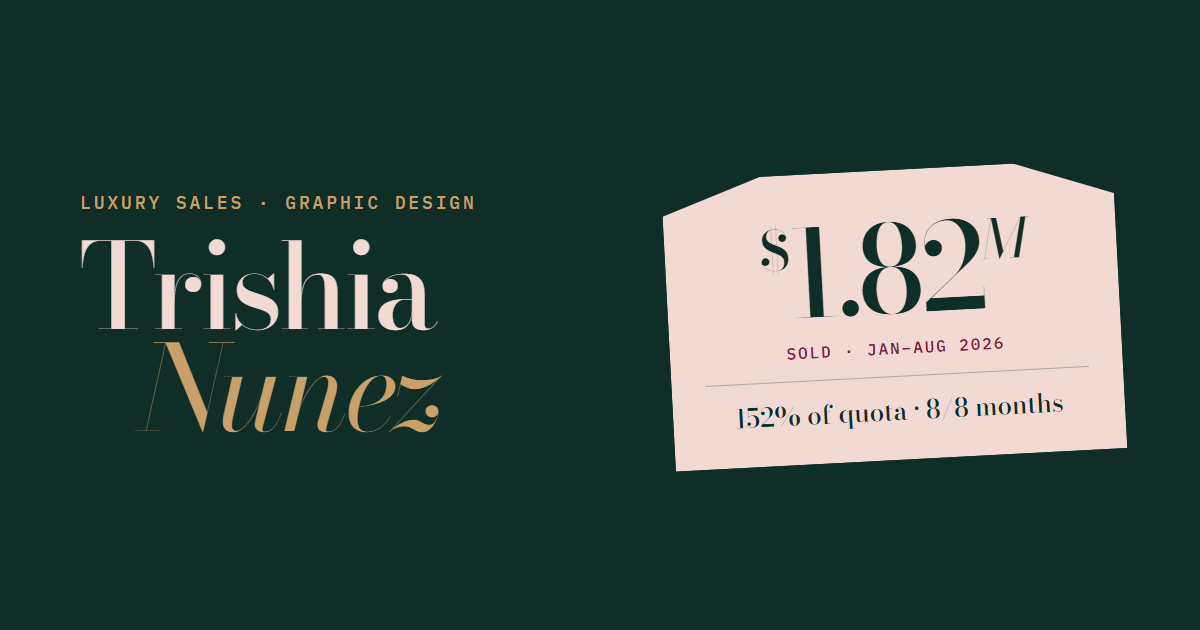
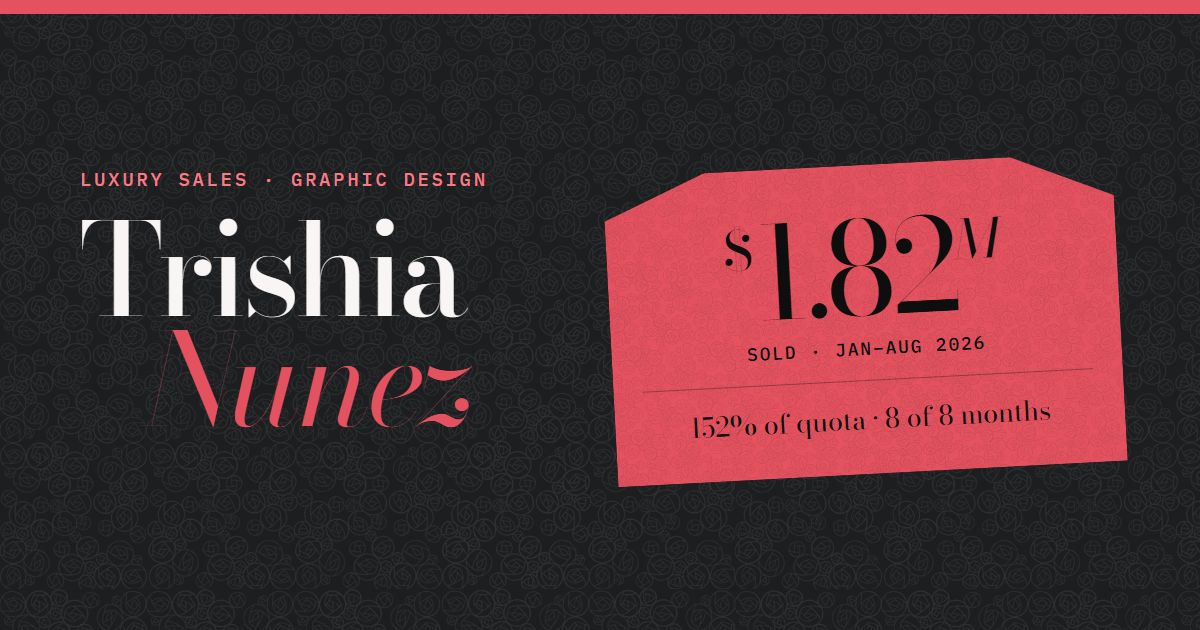
Redesign around her Infrared palette
Infrared (#E5525F) from her portfolio site on charcoal, with her
rose line pattern as texture: Infrared top bar with her character
mark, Infrared numbers band, hang tag and contact band. Updated
favicon, theme color and social preview image.

diff --git a/styles.css b/styles.css
@@ -1,19 +1,21 @@
 /* Trishia Nunez: trishianunez.com
-   Dark palette: near-black bottle green ground, blush headings, brass + rose accents. */
+   Palette from her portfolio site: Infrared red on charcoal, white type, black line-art roses. */
 :root {
   color-scheme: dark;
-  --bg: #0E1513;         /* page ground */
-  --band: #0B201C;       /* deep bottle green: results, contact, footer */
-  --surface: #15241F;    /* cards, frames, placeholders */
-  --tag: #16302A;        /* hang tag */
-  --heading: #F1E4DF;    /* headings, strong text */
-  --blush: #E8C9C1;      /* big numerals, primary buttons */
-  --brass: #CDA872;
-  --rose: #E3A0AE;       /* accent text: eyebrows, italics, labels */
-  --text: #DDD5CF;
-  --muted: #A29A94;
-  --rule: rgba(233, 226, 220, .12);
-  --rule-strong: rgba(232, 201, 193, .32);
+  --bg: #1D1E20;         /* charcoal page ground */
+  --bg-deep: #141516;    /* footer */
+  --surface: #26272A;    /* cards, frames */
+  --infrared: #E5525F;   /* brand red: top bar, bands, tag, buttons, large italics */
+  --infrared-hi: #F47C87;/* small accent text on charcoal (AA contrast) */
+  --ink: #0E0E0F;        /* text on infrared */
+  --heading: #F8F5F4;
+  --text: #DAD6D4;
+  --muted: #A19D9B;
+  --rule: rgba(255, 255, 255, .1);
+  --rule-strong: rgba(255, 255, 255, .26);
+  --rule-ink: rgba(14, 14, 15, .3);
+  --roses: url("assets/roses-dark.webp");
+  --roses-light: url("assets/roses-light.webp");
 
   --display: "Bodoni Moda", "Didot", "Bodoni 72", Georgia, serif;
   --body: "Hanken Grotesk", system-ui, -apple-system, "Segoe UI", sans-serif;
@@ -27,7 +29,7 @@
 html { scroll-behavior: smooth; -webkit-text-size-adjust: 100%; }
 body {
   margin: 0;
-  background: var(--bg);
+  background: var(--roses) 0 0 / 735px auto, var(--bg);
   color: var(--text);
   font: 400 1.0625rem/1.6 var(--body);
   -webkit-font-smoothing: antialiased;
@@ -36,43 +38,43 @@ body {
 img { max-width: 100%; display: block; }
 a { color: inherit; }
 h1, h2, h3, p { margin: 0; }
-:focus-visible { outline: 2px solid var(--rose); outline-offset: 3px; border-radius: 2px; }
-.results :focus-visible, .contact :focus-visible { outline-color: var(--brass); }
+:focus-visible { outline: 2px solid var(--infrared-hi); outline-offset: 3px; border-radius: 2px; }
+.topbar :focus-visible, .results :focus-visible, .contact :focus-visible { outline-color: var(--ink); }
 
 .skip {
   position: absolute; left: 1rem; top: -4rem; z-index: 50;
-  background: var(--blush); color: var(--bg); padding: .6rem 1rem; text-decoration: none;
+  background: var(--infrared); color: var(--ink); padding: .6rem 1rem; text-decoration: none;
 }
 .skip:focus { top: 1rem; }
 
 .eyebrow {
   font: 500 .75rem/1.4 var(--mono);
   letter-spacing: .14em; text-transform: uppercase;
-  color: var(--rose);
+  color: var(--infrared-hi);
 }
-.eyebrow--light { color: var(--brass); }
+.eyebrow--light { color: var(--ink); }
 
 /* ---------- Top bar ---------- */
 .topbar {
   position: sticky; top: 0; z-index: 20;
   display: flex; align-items: center; justify-content: space-between; gap: 1rem;
   padding: .85rem var(--gutter);
-  background: rgba(14, 21, 19, .86);
-  backdrop-filter: saturate(1.4) blur(10px);
-  -webkit-backdrop-filter: saturate(1.4) blur(10px);
-  border-bottom: 1px solid var(--rule);
+  background: var(--infrared);
+  box-shadow: 0 1px 0 rgba(0, 0, 0, .25), 0 10px 30px rgba(0, 0, 0, .25);
 }
 .monogram {
-  font: 600 1.5rem/1 var(--display); letter-spacing: -.02em; text-decoration: none; color: var(--heading);
+  display: inline-flex; align-items: center; gap: .6rem;
+  font: 600 1.5rem/1 var(--display); letter-spacing: -.02em; text-decoration: none; color: var(--ink);
 }
-.monogram span { font-style: italic; color: var(--rose); margin-left: .02em; }
+.monogram img { width: 46px; height: auto; }
+.monogram span { font-style: italic; color: var(--heading); margin-left: -.5rem; }
 .topbar ul { list-style: none; display: flex; gap: clamp(.75rem, 2.4vw, 2rem); margin: 0; padding: 0; align-items: center; }
 .topbar a:not(.monogram) {
-  font: 500 .8rem/1 var(--mono); letter-spacing: .08em; text-transform: uppercase; text-decoration: none; color: var(--text);
+  font: 500 .8rem/1 var(--mono); letter-spacing: .08em; text-transform: uppercase; text-decoration: none; color: var(--ink);
 }
-.topbar li a:hover { color: var(--rose); }
-.topbar__cta { border: 1px solid var(--rule-strong); padding: .55rem .9rem; border-radius: 999px; }
-.topbar__cta:hover { background: var(--blush); border-color: var(--blush); color: var(--bg) !important; }
+.topbar li a:hover { color: var(--heading); }
+.topbar__cta { border: 1px solid var(--ink); padding: .55rem .9rem; border-radius: 999px; }
+.topbar__cta:hover { background: var(--ink); color: var(--heading) !important; }
 
 /* ---------- Buttons ---------- */
 .btn {
@@ -83,14 +85,15 @@ h1, h2, h3, p { margin: 0; }
   transition: background-color .2s, color .2s, border-color .2s, transform .2s;
 }
 .btn:hover { transform: translateY(-1px); }
-.btn--primary { background: var(--blush); color: var(--bg); }
-.btn--primary:hover { background: var(--brass); }
+.btn--primary { background: var(--infrared); color: var(--ink); }
+.btn--primary:hover { background: var(--heading); }
 .btn--ghost { border-color: var(--rule-strong); color: var(--heading); }
-.btn--ghost:hover { border-color: var(--blush); background: rgba(232, 201, 193, .08); }
-.btn--light { background: var(--blush); color: var(--bg); }
-.btn--light:hover { background: var(--brass); }
-.btn--outline-light { border-color: rgba(242, 217, 211, .55); color: var(--blush); }
-.btn--outline-light:hover { border-color: var(--blush); background: rgba(242, 217, 211, .08); }
+.btn--ghost:hover { border-color: var(--infrared); background: rgba(229, 82, 95, .1); }
+/* on Infrared bands */
+.btn--light { background: var(--ink); color: var(--heading); }
+.btn--light:hover { background: var(--bg); }
+.btn--outline-light { border-color: var(--ink); color: var(--ink); }
+.btn--outline-light:hover { background: rgba(14, 14, 15, .1); }
 
 /* ---------- Hero ---------- */
 .hero {
@@ -106,7 +109,7 @@ h1, h2, h3, p { margin: 0; }
   font-variation-settings: "opsz" 96;
   line-height: .86; letter-spacing: -.035em; color: var(--heading);
 }
-.hero__name em { display: block; font-style: italic; font-weight: 400; color: var(--rose); padding-left: .55em; }
+.hero__name em { display: block; font-style: italic; font-weight: 400; color: var(--infrared); padding-left: .55em; }
 .hero__line { max-width: 34ch; font-size: clamp(1.1rem, 1.6vw, 1.3rem); line-height: 1.5; color: var(--muted); }
 .hero__line strong { color: var(--heading); font-weight: 600; }
 .hero__actions { display: flex; flex-wrap: wrap; gap: .75rem; margin-top: 2rem; }
@@ -115,11 +118,11 @@ h1, h2, h3, p { margin: 0; }
 .tagwrap { position: relative; justify-self: center; padding-top: 110px; width: min(100%, 360px); }
 .tagwrap__string {
   position: absolute; z-index: 2; top: -40px; left: 50%; width: 60px; height: 180px; transform: translateX(-50%); pointer-events: none;
-  color: var(--brass);
+  color: var(--muted);
 }
 .tag {
   position: relative;
-  background: var(--tag); color: var(--heading);
+  background: var(--roses-light) 0 0 / 420px auto, var(--infrared); color: var(--ink);
   padding: 3.4rem 1.75rem 1.5rem;
   /* clipped shoulders, like a cut card tag */
   clip-path: polygon(22% 0, 78% 0, 100% 12%, 100% 100%, 0 100%, 0 12%);
@@ -130,16 +133,16 @@ h1, h2, h3, p { margin: 0; }
 }
 .tag::before { /* inner stitched border */
   content: ""; position: absolute; inset: 10px;
-  border: 1px dashed rgba(205, 168, 114, .4);
+  border: 1px dashed rgba(14, 14, 15, .45);
   clip-path: polygon(22% 0, 78% 0, 100% 11.5%, 100% 100%, 0 100%, 0 11.5%);
   pointer-events: none;
 }
 .tag__eyelet {
   position: absolute; top: 1.15rem; left: 50%; width: 22px; height: 22px; transform: translateX(-50%);
-  border-radius: 50%; background: var(--bg); box-shadow: 0 0 0 4px var(--brass), inset 0 2px 3px rgba(0,0,0,.18);
+  border-radius: 50%; background: var(--bg); box-shadow: 0 0 0 4px var(--heading), inset 0 2px 3px rgba(0,0,0,.18);
 }
 .tag__brand { font: 600 1.35rem/1.1 var(--display); text-align: center; letter-spacing: .01em; }
-.tag__cat { font: 500 .7rem/1.4 var(--mono); letter-spacing: .14em; text-transform: uppercase; text-align: center; margin-top: .35rem; color: var(--rose); }
+.tag__cat { font: 500 .7rem/1.4 var(--mono); letter-spacing: .14em; text-transform: uppercase; text-align: center; margin-top: .35rem; color: var(--ink); }
 .tag__price {
   margin-top: 1.4rem; text-align: center;
   font: 500 clamp(4rem, 9vw, 5.4rem)/.9 var(--display); letter-spacing: -.04em;
@@ -148,16 +151,16 @@ h1, h2, h3, p { margin: 0; }
 .tag__cur, .tag__unit { font-size: .45em; vertical-align: .9em; letter-spacing: 0; margin: 0 .04em; }
 .tag__unit { font-style: italic; }
 .tag__pricecap { text-align: center; font: 400 .75rem/1.4 var(--mono); letter-spacing: .1em; text-transform: uppercase; margin-top: .55rem; }
-.tag__spec { margin: 1.4rem 0 0; border-top: 1px solid rgba(205, 168, 114, .3); }
-.tag__spec div { display: grid; grid-template-columns: 6.5rem 1fr; gap: .75rem; padding: .5rem 0; border-bottom: 1px solid rgba(205, 168, 114, .3); }
-.tag__spec dt { font: 500 .68rem/1.5 var(--mono); letter-spacing: .12em; text-transform: uppercase; color: var(--rose); }
+.tag__spec { margin: 1.4rem 0 0; border-top: 1px solid var(--rule-ink); }
+.tag__spec div { display: grid; grid-template-columns: 6.5rem 1fr; gap: .75rem; padding: .5rem 0; border-bottom: 1px solid var(--rule-ink); }
+.tag__spec dt { font: 500 .68rem/1.5 var(--mono); letter-spacing: .12em; text-transform: uppercase; color: var(--ink); }
 .tag__spec dd { margin: 0; font-size: .9rem; line-height: 1.35; font-weight: 500; }
 .tag__barcode {
   height: 38px; margin-top: 1.2rem;
   background: repeating-linear-gradient(90deg,
-    var(--blush) 0 2px, transparent 2px 4px, var(--blush) 4px 5px, transparent 5px 8px,
-    var(--blush) 8px 11px, transparent 11px 12px, var(--blush) 12px 13px, transparent 13px 17px,
-    var(--blush) 17px 18px, transparent 18px 20px, var(--blush) 20px 23px, transparent 23px 26px);
+    var(--ink) 0 2px, transparent 2px 4px, var(--ink) 4px 5px, transparent 5px 8px,
+    var(--ink) 8px 11px, transparent 11px 12px, var(--ink) 12px 13px, transparent 13px 17px,
+    var(--ink) 17px 18px, transparent 18px 20px, var(--ink) 20px 23px, transparent 23px 26px);
 }
 .tag__sku { text-align: center; font: 400 .68rem/1 var(--mono); letter-spacing: .3em; margin-top: .45rem; }
 
@@ -171,26 +174,25 @@ h1, h2, h3, p { margin: 0; }
 
 /* ---------- Results band ---------- */
 .results {
-  background: var(--band); color: var(--text);
-  border-block: 1px solid var(--rule);
+  background: var(--roses-light) 0 0 / 735px auto, var(--infrared); color: var(--ink);
   padding: clamp(3rem, 6vw, 5rem) var(--gutter);
 }
 .results__title {
   max-width: var(--max); margin: 0 auto 2.5rem;
-  font: 500 .78rem/1.4 var(--mono); letter-spacing: .14em; text-transform: uppercase; color: var(--brass);
+  font: 500 .78rem/1.4 var(--mono); letter-spacing: .14em; text-transform: uppercase; color: var(--ink);
 }
 .results__grid {
   list-style: none; margin: 0 auto; padding: 0; max-width: var(--max);
   display: grid; grid-template-columns: repeat(4, minmax(0, 1fr));
 }
-.metric { padding: 0 1.5rem; border-left: 1px solid rgba(201, 160, 106, .35); display: flex; flex-direction: column; gap: .9rem; }
+.metric { padding: 0 1.5rem; border-left: 1px solid var(--rule-ink); display: flex; flex-direction: column; gap: .9rem; }
 .metric:first-child { padding-left: 0; border-left: 0; }
 .metric__value {
-  font: 500 clamp(3rem, 6.4vw, 5.6rem)/.9 var(--display); letter-spacing: -.04em; color: var(--blush);
+  font: 500 clamp(3rem, 6.4vw, 5.6rem)/.9 var(--display); letter-spacing: -.04em; color: var(--heading);
   font-variation-settings: "opsz" 96;
 }
-.metric__of { font-style: italic; color: var(--brass); font-size: .55em; letter-spacing: 0; }
-.metric__label { max-width: 22ch; color: var(--text); font-size: .98rem; line-height: 1.45; }
+.metric__of { font-style: italic; color: var(--ink); font-size: .55em; letter-spacing: 0; }
+.metric__label { max-width: 22ch; color: var(--ink); font-weight: 500; font-size: .98rem; line-height: 1.45; }
 
 /* ---------- Generic section ---------- */
 .section { max-width: var(--max); margin: 0 auto; padding: clamp(4rem, 9vw, 7.5rem) var(--gutter) 0; }
@@ -199,7 +201,7 @@ h1, h2, h3, p { margin: 0; }
   font: 500 clamp(2.2rem, 5vw, 3.9rem)/1 var(--display); letter-spacing: -.025em; color: var(--heading);
   font-variation-settings: "opsz" 72; max-width: 18ch;
 }
-.section__title em { font-style: italic; color: var(--rose); }
+.section__title em { font-style: italic; color: var(--infrared); }
 .section__lede { max-width: 60ch; color: var(--muted); font-size: 1.08rem; }
 
 /* ---------- Experience ---------- */
@@ -210,10 +212,10 @@ h1, h2, h3, p { margin: 0; }
 }
 .role__dates { font: 500 .8rem/1.6 var(--mono); letter-spacing: .06em; text-transform: uppercase; color: var(--muted); padding-top: .55rem; }
 .role__co { font: 500 clamp(1.8rem, 3.2vw, 2.5rem)/1.05 var(--display); letter-spacing: -.02em; color: var(--heading); }
-.role__title { margin-top: .4rem; font-weight: 600; color: var(--rose); font-size: .98rem; }
+.role__title { margin-top: .4rem; font-weight: 600; color: var(--infrared-hi); font-size: .98rem; }
 .role__points { margin: 1rem 0 0; padding: 0; list-style: none; display: grid; gap: .55rem; max-width: 70ch; }
 .role__points li { position: relative; padding-left: 1.3rem; color: var(--text); }
-.role__points li::before { content: ""; position: absolute; left: 0; top: .72em; width: .55rem; height: 1px; background: var(--rose); }
+.role__points li::before { content: ""; position: absolute; left: 0; top: .72em; width: .55rem; height: 1px; background: var(--infrared-hi); }
 .role__points strong { color: var(--heading); }
 
 /* ---------- Design work gallery ---------- */
@@ -242,21 +244,21 @@ h1, h2, h3, p { margin: 0; }
   font: 400 .75rem/1.5 var(--mono); letter-spacing: .04em; color: var(--text);
   border: 1px dashed rgba(233, 226, 220, .25);
 }
-.piece__ph b { font-weight: 500; color: var(--rose); }
+.piece__ph b { font-weight: 500; color: var(--infrared-hi); }
 .piece figcaption { font-size: .95rem; color: var(--muted); }
-.piece__kind { display: block; font: 500 .72rem/1.4 var(--mono); letter-spacing: .12em; text-transform: uppercase; color: var(--rose); margin-bottom: .15rem; }
-.piece.is-loaded .piece__frame { background: var(--band); }
+.piece__kind { display: block; font: 500 .72rem/1.4 var(--mono); letter-spacing: .12em; text-transform: uppercase; color: var(--infrared-hi); margin-bottom: .15rem; }
+.piece.is-loaded .piece__frame { background: var(--surface); }
 .piece--art .piece__frame { background: var(--heading); border-color: transparent; }
 .gallery .piece__frame img { object-fit: contain; padding: 4%; }
 .piece--art .piece__frame img { padding: 6%; }
 .piece--more { text-decoration: none; }
 .piece--more .piece__frame { background: var(--surface); border: 1px solid var(--rule-strong); transition: border-color .2s, background-color .2s; }
-.piece--more:hover .piece__frame { border-color: var(--blush); background: var(--tag); }
+.piece--more:hover .piece__frame { border-color: var(--infrared); background: rgba(229, 82, 95, .12); }
 .more__body { display: grid; gap: .8rem; padding: 1.5rem; text-align: center; max-width: 18rem; }
 .more__title { font: 500 clamp(1.4rem, 2.2vw, 1.8rem)/1.15 var(--display); color: var(--heading); }
 .more__links { font-size: .95rem; color: var(--muted); }
 .work__social { margin-top: 1.5rem; font: 500 .8rem/1.6 var(--mono); letter-spacing: .06em; color: var(--muted); }
-.work__social a { color: var(--rose); }
+.work__social a { color: var(--infrared-hi); }
 
 /* ---------- Awards ---------- */
 .awards__list { list-style: none; margin: 0; padding: 0; display: grid; grid-template-columns: repeat(4, minmax(0, 1fr)); gap: 1rem; }
@@ -267,7 +269,7 @@ h1, h2, h3, p { margin: 0; }
   text-align: center;
 }
 .award__name { font: 500 clamp(1.3rem, 2vw, 1.6rem)/1.1 var(--display); color: var(--heading); padding-top: 1.4rem; }
-.award__from { font: 500 .7rem/1.4 var(--mono); letter-spacing: .12em; text-transform: uppercase; color: var(--rose); }
+.award__from { font: 500 .7rem/1.4 var(--mono); letter-spacing: .12em; text-transform: uppercase; color: var(--infrared-hi); }
 
 /* ---------- About ---------- */
 .about { display: grid; grid-template-columns: minmax(0, .8fr) minmax(0, 1.4fr); gap: clamp(2rem, 5vw, 5rem); align-items: start; }
@@ -277,40 +279,39 @@ h1, h2, h3, p { margin: 0; }
   border-radius: 999px 999px 4px 4px;
 }
 .portrait-ph {
-  background: var(--surface); color: var(--blush); display: grid; place-items: center; text-align: center;
+  background: var(--surface); color: var(--heading); display: grid; place-items: center; text-align: center;
   font: 400 .8rem/1.6 var(--mono); letter-spacing: .08em;
 }
-.portrait-ph small { color: var(--brass); font-size: .72rem; }
+.portrait-ph small { color: var(--infrared-hi); font-size: .72rem; }
 .about__copy { display: grid; gap: 1rem; }
 .about__lede { font-size: 1.15rem; line-height: 1.6; color: var(--text); max-width: 60ch; margin-top: .5rem; }
 .skills { margin: 1.5rem 0 0; border-top: 1px solid var(--rule); }
 .skills div { display: grid; grid-template-columns: 11rem minmax(0, 1fr); gap: 1.5rem; padding: 1rem 0; border-bottom: 1px solid var(--rule); }
-.skills dt { font: 500 .75rem/1.6 var(--mono); letter-spacing: .1em; text-transform: uppercase; color: var(--rose); padding-top: .15rem; }
+.skills dt { font: 500 .75rem/1.6 var(--mono); letter-spacing: .1em; text-transform: uppercase; color: var(--infrared-hi); padding-top: .15rem; }
 .skills dd { margin: 0; color: var(--text); }
 
 /* ---------- Contact ---------- */
 .contact {
   margin-top: clamp(4rem, 9vw, 7.5rem);
-  background: var(--band); color: var(--text);
-  border-top: 1px solid var(--rule);
+  background: var(--roses-light) 0 0 / 735px auto, var(--infrared); color: var(--ink);
   padding: clamp(4rem, 9vw, 7rem) var(--gutter);
   text-align: center; display: grid; justify-items: center; gap: 1.1rem;
 }
 .contact__title {
-  font: 500 clamp(2.6rem, 7.5vw, 6.2rem)/.95 var(--display); letter-spacing: -.035em; color: var(--blush);
+  font: 500 clamp(2.6rem, 7.5vw, 6.2rem)/.95 var(--display); letter-spacing: -.035em; color: var(--heading);
   font-variation-settings: "opsz" 96; max-width: 14ch;
 }
-.contact__title em { color: var(--brass); }
-.contact__sub { color: var(--text); max-width: 46ch; }
+.contact__title em { color: var(--ink); }
+.contact__sub { color: var(--ink); font-weight: 500; max-width: 46ch; }
 .contact__actions { display: flex; flex-wrap: wrap; gap: .75rem; justify-content: center; margin-top: 1.4rem; }
 
 .footer {
   display: flex; justify-content: space-between; gap: 1rem; flex-wrap: wrap;
-  padding: 1.5rem var(--gutter); background: var(--band); color: var(--muted);
-  border-top: 1px solid rgba(201, 160, 106, .25);
+  padding: 1.5rem var(--gutter); background: var(--bg-deep); color: var(--muted);
+  border-top: 1px solid var(--rule);
   font: 400 .75rem/1.4 var(--mono); letter-spacing: .06em;
 }
-.footer a { color: var(--brass); }
+.footer a { color: var(--infrared-hi); }
 
 /* ---------- Responsive ---------- */
 @media (max-width: 1000px) {

diff --git a/index.html b/index.html
@@ -6,7 +6,7 @@
   <title>Trishia Nunez | Luxury Sales &amp; Graphic Design</title>
   <meta name="description" content="Trishia Nunez: luxury sales specialist and graphic designer. $1.82M sold in eight months at 152% of quota, 9+ years in luxury retail, magna cum laude in Graphic Design.">
   <link rel="canonical" href="https://trishianunez.com/">
-  <meta name="theme-color" content="#0E1513">
+  <meta name="theme-color" content="#E5525F">
 
   <!-- Open Graph / social cards -->
   <meta property="og:type" content="profile">
@@ -60,7 +60,7 @@
   <a class="skip" href="#main">Skip to content</a>
 
   <header class="topbar">
-    <a class="monogram" href="#top" aria-label="Trishia Nunez, back to top">T<span>N</span></a>
+    <a class="monogram" href="#top" aria-label="Trishia Nunez, back to top"><img src="assets/mark.webp" alt="" width="140" height="107">T<span>N</span></a>
     <nav aria-label="Primary">
       <ul>
         <li><a href="#results">Results</a></li>
@@ -122,7 +122,7 @@
           <span class="metric__label">of a $150,000 monthly quota</span>
         </li>
         <li class="metric">
-          <span class="metric__value">8<span class="metric__of">/8</span></span>
+          <span class="metric__value">8<span class="metric__of"> of 8</span></span>
           <span class="metric__label">months over target. Every single one.</span>
         </li>
         <li class="metric">
